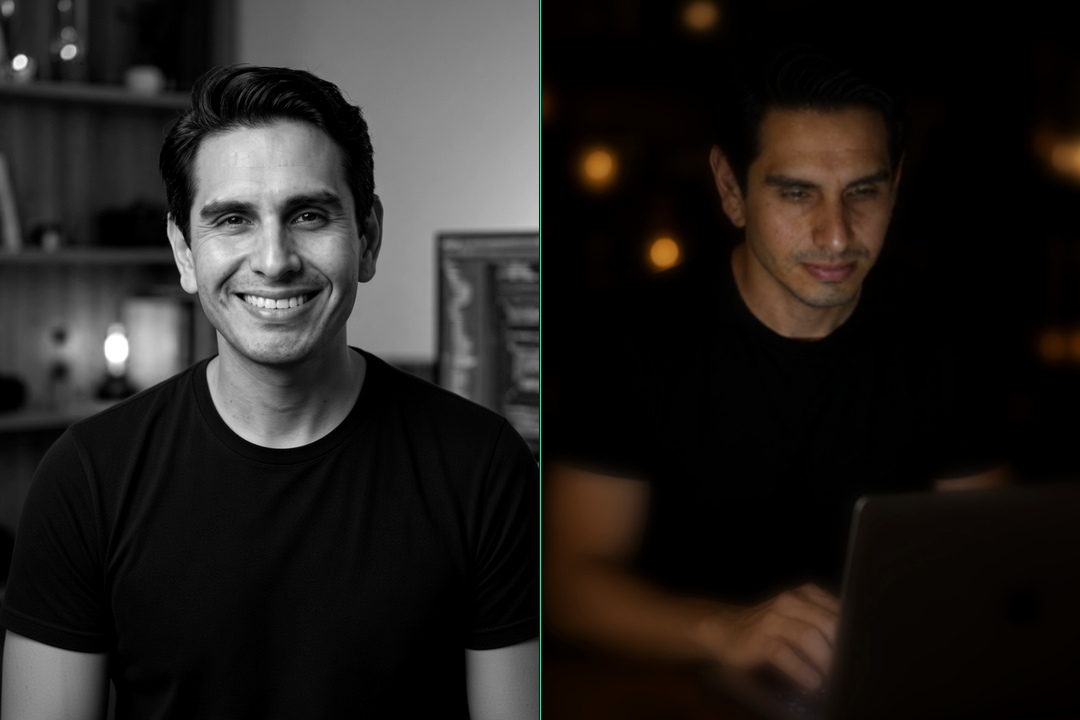
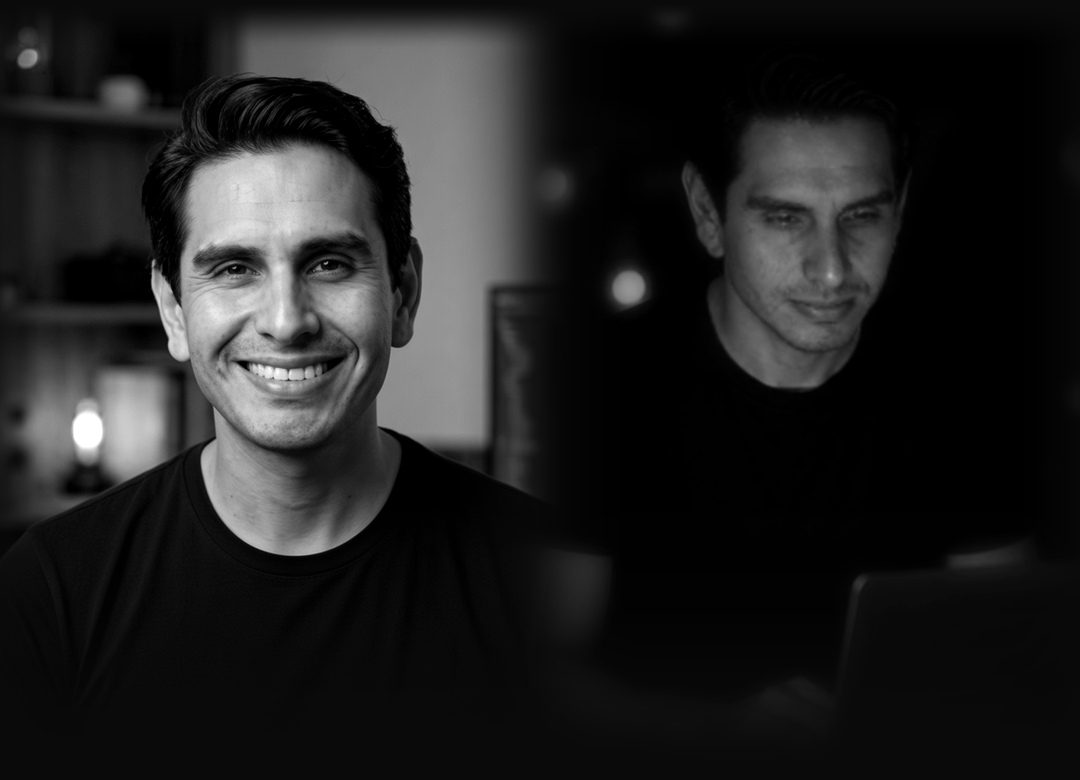
Portada: ambas fotos B/N con degradé suave en bordes
Sin cortes cuadrados: fade en costados y abajo, ambas
fotos de Sebastián en blanco y negro.

diff --git a/builds/2026-09-04-10-reglas-padre/generate.py b/builds/2026-09-04-10-reglas-padre/generate.py
@@ -163,8 +163,11 @@ EXTRA_CSS = """
 .bg-svg{position:absolute;inset:0;width:100%;height:100%;display:block;}
 
 .s-cover{position:relative;z-index:5;height:100%;display:flex;flex-direction:column;}
-.cover-photos{width:100%;height:720px;object-fit:cover;object-position:center top;display:block;flex-shrink:0;}
-.cover-body{flex:1;display:flex;flex-direction:column;justify-content:center;padding:28px 56px 110px;text-align:center;}
+.cover-photos{width:100%;height:780px;object-fit:cover;object-position:center top;display:block;flex-shrink:0;
+ mask-image:linear-gradient(to bottom, #000 0%, #000 72%, transparent 100%);
+ -webkit-mask-image:linear-gradient(to bottom, #000 0%, #000 72%, transparent 100%);}
+.cover-body{flex:1;display:flex;flex-direction:column;justify-content:center;padding:8px 56px 110px;text-align:center;
+ margin-top:-48px;position:relative;z-index:6;}
 .cover-kicker{font-family:var(--mono);font-size:15px;letter-spacing:.2em;color:var(--verde);text-transform:uppercase;margin-bottom:18px;}
 .cover-title{font-family:var(--pop);font-weight:800;font-size:44px;line-height:1.1;color:var(--blanco);
  text-transform:uppercase;letter-spacing:-.01em;text-shadow:0 4px 28px rgba(0,0,0,.75);}
